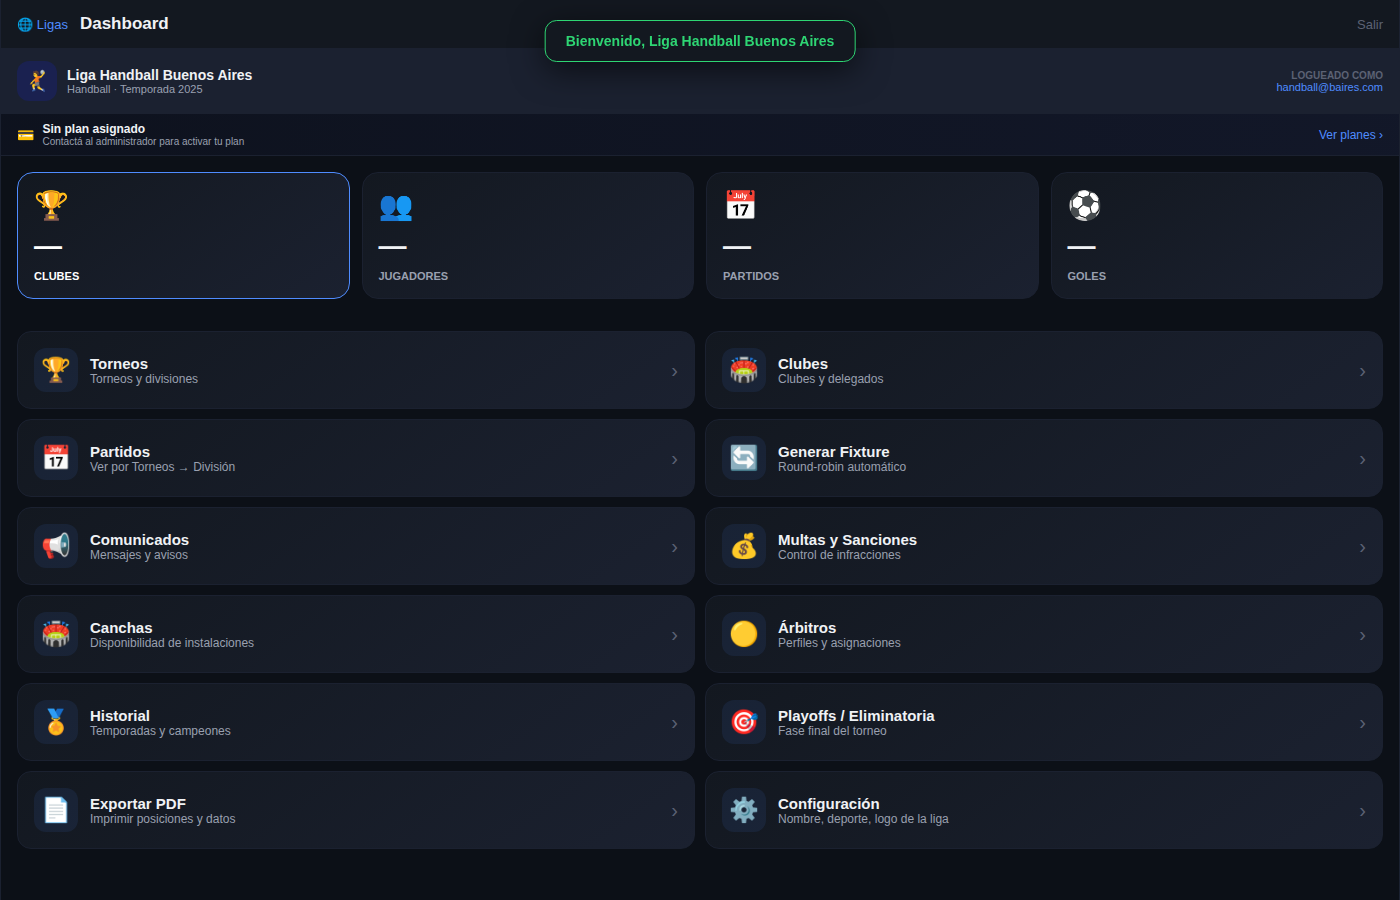
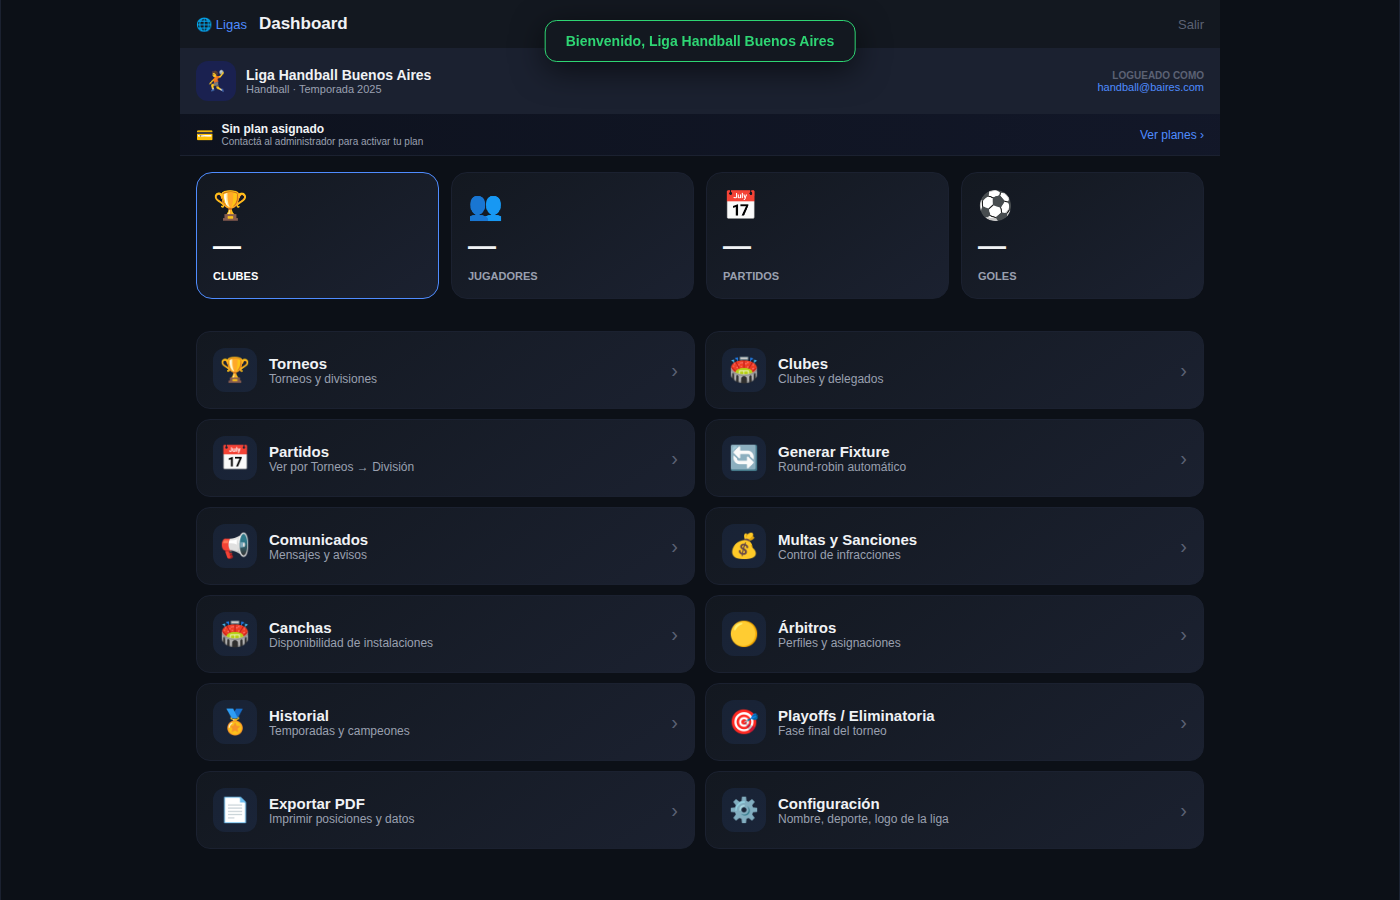
Center role view on desktop instead of full-bleed stretch
After hiding the public chrome for role sessions, the dashboard stretched
across the whole monitor and looked like a full-screen card. Constrain
the role views (admin/superadmin/árbitro/mesa/delegado) to a centered
1040px max-width so they read as an app panel.

Claude-Session: https://claude.ai/code/session_01QCy8tVHQZ4cf3JdeCydVso

diff --git a/sim_clubficha.js b/sim_clubficha.js
@@ -1,0 +1,28 @@
+const { chromium } = require('playwright');
+(async () => {
+  const browser = await chromium.launch({ executablePath: '/opt/pw-browsers/chromium', headless: true });
+  const page = await (await browser.newContext({ viewport:{width:1400,height:900} })).newPage();
+  await page.goto('http://localhost:4330/prototipo.html', { waitUntil:'domcontentloaded' });
+  await page.waitForTimeout(1500);
+
+  // public: open liga standings, then dblclick a team -> club ficha
+  await page.evaluate(() => document.querySelector('#dt-left .dt-node-liga')?.click());
+  await page.waitForTimeout(700);
+  await page.evaluate(() => {
+    const row = document.querySelector('.vtd-st-row');
+    row?.dispatchEvent(new MouseEvent('dblclick',{bubbles:true}));
+  });
+  await page.waitForTimeout(700);
+
+  const state = await page.evaluate(() => ({
+    activeView: document.querySelector('.view.active')?.id,
+    bodyHasRoleSession: document.body.classList.contains('role-session'),
+    session: sessionStorage.getItem('liga_session'),
+    dtLeftDisplay: getComputedStyle(document.getElementById('dt-left')).display,
+    dtNavDisplay: getComputedStyle(document.getElementById('dt-nav')).display,
+    appGridAreas: getComputedStyle(document.getElementById('app')).gridTemplateAreas,
+  }));
+  console.log(JSON.stringify(state,null,2));
+  await page.screenshot({ path: '/home/user/Liga/clubficha_pub.png' });
+  await browser.close();
+})().catch(e=>console.error('FATAL:',e.message));

diff --git a/prototipo.html b/prototipo.html
@@ -574,6 +574,13 @@ header .subtitle{font-size:12px;color:var(--text2);}
   body.role-session #dt-left,
   body.role-session #dt-right{display:none!important;}
   body.role-session #app{grid-template-areas:"dmain";grid-template-columns:1fr;grid-template-rows:100vh;}
+  /* Center the role view content so it reads like an app panel, not a
+     full-bleed card stretched across a wide monitor. */
+  body.role-session #view-admin,
+  body.role-session #view-superadmin,
+  body.role-session #view-arbitro,
+  body.role-session #view-mesa,
+  body.role-session #view-delegado{max-width:1040px;margin:0 auto;width:100%;}
   .dt-brand{display:flex;align-items:center;gap:10px;cursor:pointer;margin-right:20px;}
   .dt-brand>span{font-size:16px;font-weight:800;}
   .dt-tabs{display:flex;gap:2px;}
